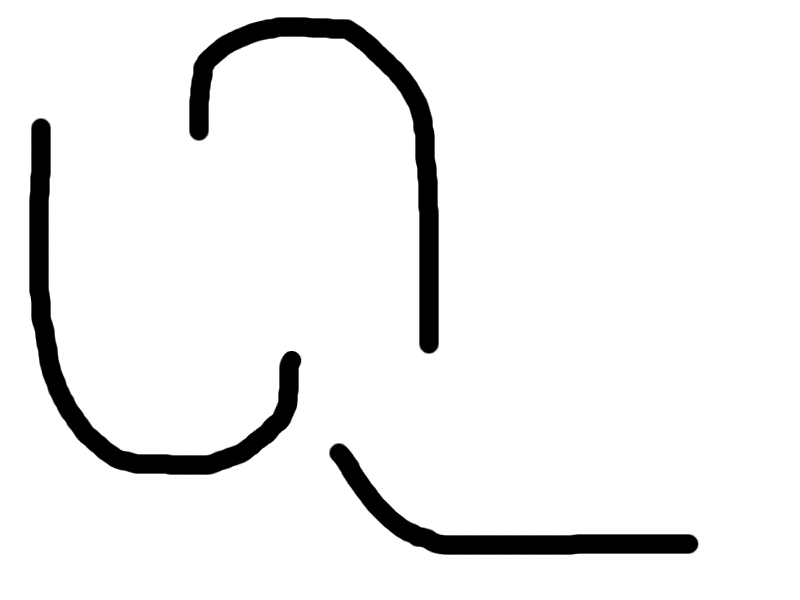
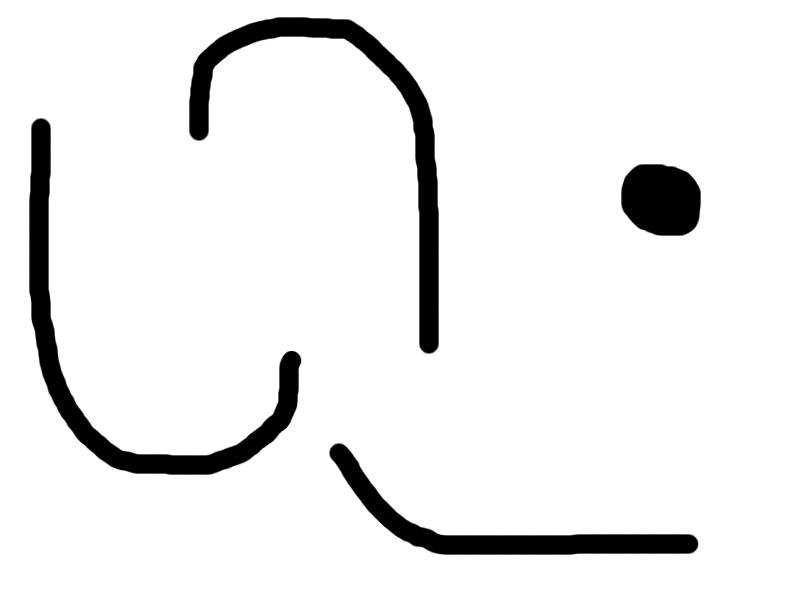
Starting to add AoEsensor

Changed region(s): [[0.75, 0.27, 0.875, 0.39]]

diff --git a/PhysicsDefense/GameState/AoeSensor.cs b/PhysicsDefense/GameState/AoeSensor.cs
@@ -1,0 +1,36 @@
+using System;
+using System.Collections.Generic;
+using System.Linq;
+using System.Text;
+using FarseerPhysics.Dynamics;
+using Microsoft.Xna.Framework;
+using FarseerPhysics.Factories;
+using FarseerPhysics.Dynamics.Contacts;
+
+namespace PhysicsDefense.GameState
+{
+	class AoeSensor : GameObject
+	{
+		private Vector2 sensorPos;
+		private float radius;
+		private Body body;
+
+		public AoeSensor(World world, Vector2 position, float radius)
+		{
+			this.position = position;
+			this.radius = radius;
+			this.spriteName = null;
+
+			body = BodyFactory.CreateCircle(world, radius, 1f);
+			body.BodyType = BodyType.Dynamic;
+			body.IsSensor = true;
+
+			body.OnCollision += new OnCollisionEventHandler(body_OnCollision);
+		}
+
+		bool body_OnCollision(Fixture fixtureA, Fixture fixtureB, Contact contact)
+		{
+			return false;
+		}
+	}
+}

diff --git a/PhysicsDefense/GameState/Tower.cs b/PhysicsDefense/GameState/Tower.cs
@@ -15,6 +15,9 @@ namespace PhysicsDefense.GameState
 		private static float density = 5.0f;
 		public int collisionCount = 0;
 
+		float range = 5f;
+		public AoeSensor rangeSensor;
+
 		public Tower(World world, Vector2 position)
 		{
 			spriteName = "puck";
@@ -31,6 +34,8 @@ namespace PhysicsDefense.GameState
 
 			nativeColor = Color.White;
 			color.A = 128;
+
+			//rangeSensor = new AoeSensor(world, position, range);
 		}
 
 		public void activate()
